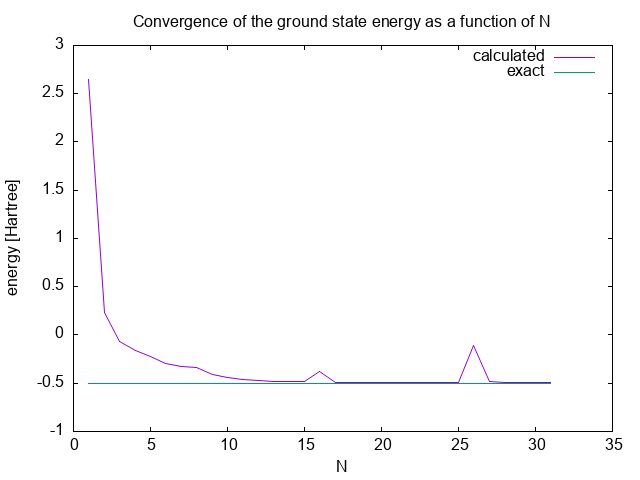
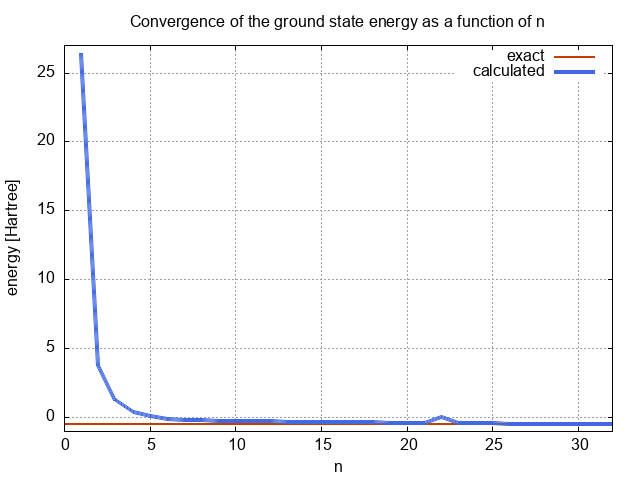
-

diff --git a/exam/lanczos/B/main.cs b/exam/lanczos/B/main.cs
@@ -3,7 +3,7 @@ using static System.Console;
 using static System.Math;
 static class main{
 public static void Main(){
-double rmax = 10; double dr = 0.3;
+double rmax = 8; double dr = 0.1;
 int n = (int)(rmax/dr)-1;
 vector r = new vector(n);
 for(int i=0;i<n;i++){ r[i]=dr*(i+1); }
@@ -16,6 +16,27 @@ for(int i=0;i<n-1;i++){
 H[n-1,n-1] = -2*(-0.5/dr/dr);
 for(int i=0;i<n;i++){ H[i,i]+=-1/r[i]; }
 
+var (V_min,T_min) = diag.lanczos(H, H.size1);
+
+for(int i=0 ; i<T_min.size1 ; i++){
+    var (Q,R) = QRGS.decomp(T_min);
+    T_min = R*Q;
+}
+double E0_min = double.PositiveInfinity;
+for(int i=0;i<T_min.size1;i++){
+    if(T_min[i,i] < E0_min){
+        E0_min = T_min[i,i];
+    }
+}
+WriteLine("Evaluation of the ground state energy of hydrogen found by Lanczos tridiagonalization and QR diagonalization:\n");
+WriteLine($"Calculated:    {Round(E0_min,3)} Hartree");
+WriteLine("Exact:         -0.5 Hartree");
+WriteLine($"\ndr =            {dr} Bohr radii");
+WriteLine($"rmax =          {rmax} Bohr radii");
+WriteLine($"rmax/dr =       {n}");
+WriteLine("\n\n\n");
+
+WriteLine("# of Lanczos iterations n:    Found ground state energy E0:");
 for(int j=1 ; j<H.size1 ; j++){
     var (V,T) = diag.lanczos(H, j);
 
@@ -29,7 +50,7 @@ for(int j=1 ; j<H.size1 ; j++){
             E0 = T[i,i];
         }
     }
-    WriteLine($"{j} {E0}");
+    WriteLine($"{j}                             {E0}");
     }
 } // Main
 } // class main
